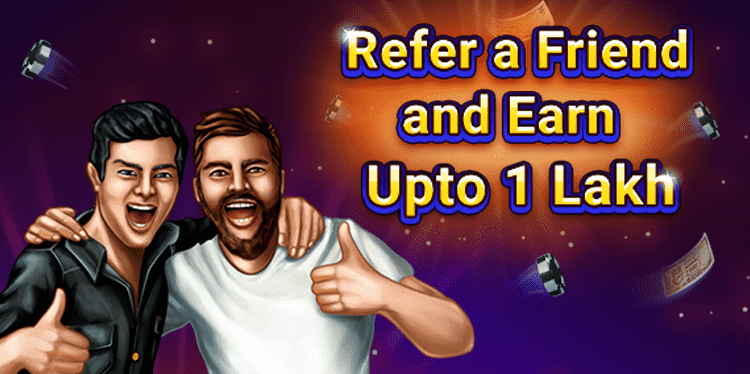
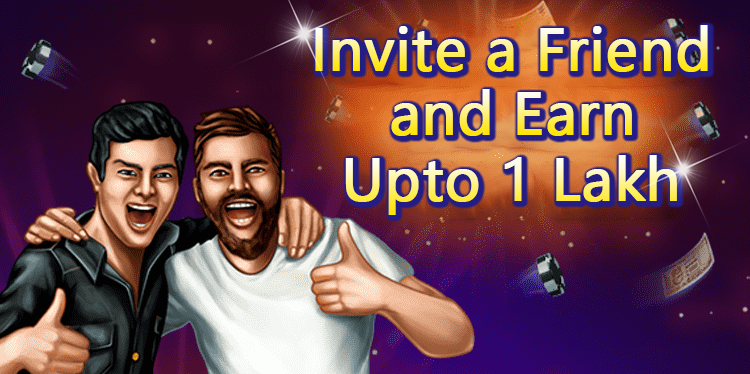
修改图片和英文显示

Changed region(s): [[0.3373, 0.0294, 0.9507, 0.6176]]

diff --git a/pages/activity/signRule.vue b/pages/activity/signRule.vue
@@ -6,7 +6,7 @@
 		<view class="rule-main">
 			<view class="rule-main-header">
 				<!-- <text class="rule-main-header-text">Q1：How much can i earn？</text> -->
-				<text class="rule-main-header-text">Q1：{{i18.signRulePage.Q1}}</text>
+				<text class="rule-main-header-text">Question：{{i18.signRulePage.Q1}}</text>
 				<!-- <text class="u-font-25 u-m-t-15 u-m-b-15 u-p-l-20">The monthly income of VIP 6 is 146 times that of VIP 1!</text> -->
 				<text class="u-font-25 u-m-t-15 u-m-b-15 u-p-l-20">{{i18.signRulePage.monthly}}</text>
 				<u-table color="#a88571">
@@ -24,61 +24,61 @@
 					</u-tr>
 					<u-tr>
 						<!-- <u-td style="color: #000000;">Sign in package 1</u-td> -->
-						<u-td style="color: #000000;">{{i18.signRulePage.mySignIn}} 1</u-td>
+						<u-td style="color: #000000;height: 96upx;">{{i18.signRulePage.mySignIn}} 1</u-td>
 						<u-td style="height: 96upx;">500</u-td>
 						<u-td style="height: 96upx;">18</u-td>
 						<u-td style="height: 96upx;">540</u-td>
-						<u-td style="height: 96upx;">30</u-td>
+						<u-td style="height: 96upx;">30 {{i18.signRulePage.mySignDay}}</u-td>
 
 
 					</u-tr>
 					<u-tr>
 						<!-- <u-td style="color: #000000;">Sign in package 2</u-td> -->
-						<u-td style="color: #000000;">{{i18.signRulePage.mySignIn}} 2</u-td>
+						<u-td style="color: #000000;height: 96upx;">{{i18.signRulePage.mySignIn}} 2</u-td>
 						<u-td style="height: 96upx;">1000</u-td>
 						<u-td style="height: 96upx;">40</u-td>
 						<u-td style="height: 96upx;">1200</u-td>
-						<u-td style="height: 96upx;">30</u-td>
+						<u-td style="height: 96upx;">30 {{i18.signRulePage.mySignDay}}</u-td>
 
 
 					</u-tr>
 					<u-tr>
 						<!-- <u-td style="color: #000000;">Sign in package 3</u-td> -->
-						<u-td style="color: #000000;">{{i18.signRulePage.mySignIn}} 3</u-td>
+						<u-td style="color: #000000;height: 96upx;">{{i18.signRulePage.mySignIn}} 3</u-td>
 						<u-td style="height: 96upx;">2500</u-td>
 						<u-td style="height: 96upx;">100</u-td>
 						<u-td style="height: 96upx;">3000</u-td>
-						<u-td style="height: 96upx;">30</u-td>
+						<u-td style="height: 96upx;">30 {{i18.signRulePage.mySignDay}}</u-td>
 
 
 					</u-tr>
 					<u-tr>
 						<!-- <u-td style="color: #000000;">Sign in package 4</u-td> -->
-						<u-td style="color: #000000;">{{i18.signRulePage.mySignIn}} 4</u-td>
+						<u-td style="color: #000000;height: 96upx;">{{i18.signRulePage.mySignIn}} 4</u-td>
 						<u-td style="height: 96upx;">6000</u-td>
 						<u-td style="height: 96upx;">230</u-td>
 						<u-td style="height: 96upx;">6900</u-td>
-						<u-td style="height: 96upx;">30</u-td>
+						<u-td style="height: 96upx;">30 {{i18.signRulePage.mySignDay}}</u-td>
 
 
 					</u-tr>
 					<u-tr>
 						<!-- <u-td style="color: #000000;">Sign in package 5</u-td> -->
-						<u-td style="color: #000000;">{{i18.signRulePage.mySignIn}} 5</u-td>
+						<u-td style="color: #000000;height: 96upx;">{{i18.signRulePage.mySignIn}} 5</u-td>
 						<u-td style="height: 96upx;">15000</u-td>
 						<u-td style="height: 96upx;">540</u-td>
 						<u-td style="height: 96upx;">16200</u-td>
-						<u-td style="height: 96upx;">30</u-td>
+						<u-td style="height: 96upx;">30 {{i18.signRulePage.mySignDay}}</u-td>
 
 
 					</u-tr>
 					<u-tr>
 						<!-- <u-td style="color: #000000;">Sign in package 6</u-td> -->
-						<u-td style="color: #000000;">{{i18.signRulePage.mySignIn}} 6</u-td>
+						<u-td style="color: #000000;height: 96upx;">{{i18.signRulePage.mySignIn}} 6</u-td>
 						<u-td style="height: 96upx;">45000</u-td>
 						<u-td style="height: 96upx;">1560</u-td>
 						<u-td style="height: 96upx;">46800</u-td>
-						<u-td style="height: 96upx;">30</u-td>
+						<u-td style="height: 96upx;">30 {{i18.signRulePage.mySignDay}}</u-td>
 
 
 					</u-tr>

diff --git a/components/Service.vue b/components/Service.vue
@@ -9,16 +9,20 @@
 				</view>
 			</view>
 			<view class="" v-if="isServer">
-				<view class="app-grouap  u-flex-col u-row-center u-p-t-10" @tap="handleClick(0)">
-					<image v-if="setting[0].icon == 'whats_app'" src="../static/service/whats_app.png" mode="" style="width: 40upx; height: 40upx; margin: auto;"></image>
-					<image v-else src="../static/service/group.png" mode="" style="width: 40upx; height: 40upx; margin: auto;"></image>
-					<text class="u-text-center u-p-b-20" style="color: white; font-size: 18upx;">{{setting[0].title}}</text>
+				<view v-for="(item, k) in setting" v-if="k < 2" :key="k" :class="{'app-grouap':k==0?true:false, 'app-whates':k==1?true:false, 'u-flex-col':true,'u-row-center':true, 'u-p-t-10':true}" @tap="handleClick(0)">
+					<image :src="require(`../static/service/${item.icon}.png`)" mode="" style="width: 40upx; height: 40upx; margin: auto;"></image>
+					<text class="u-text-center u-p-b-20" style="color: white; font-size: 18upx;">{{item.title}}</text>
 				</view>
-				<view class="app-whates  u-flex-col u-row-center u-p-t-10" @tap="handleClick(1)">
-					<image v-if="setting[1].icon == 'whats_app'" src="../static/service/whats_app.png" mode="" style="width: 40upx; height: 40upx; margin: auto;"></image>
+				<!-- <view class="app-whates  u-flex-col u-row-center u-p-t-10" @tap="handleClick(1)">
+					<image v-if="setting[1].icon == 'whats_app'" :src="require(`../static/service/${setting[1].icon}.png`)" mode="" style="width: 40upx; height: 40upx; margin: auto;"></image>
 					<image v-else src="../static/service/group.png" mode="" style="width: 40upx; height: 40upx; margin: auto;"></image>
 					<text class="u-text-center u-p-b-20" style="color: white; font-size: 18upx;">{{setting[1].title}}</text>
 				</view>
+				<view class="app-whates  u-flex-col u-row-center u-p-t-10" @tap="handleClick(1)">
+					<image v-if="setting[1].icon == 'telegram'" :src="require(`../static/service/${setting[1].icon}.png`)" mode="" style="width: 40upx; height: 40upx; margin: auto;"></image>
+					<image v-else src="../static/service/group.png" mode="" style="width: 40upx; height: 40upx; margin: auto;"></image>
+					<text class="u-text-center u-p-b-20" style="color: white; font-size: 18upx;">{{setting[1].title}}</text>
+				</view> -->
 			</view>
 		</view>
 	</view>

diff --git a/locale/en.js b/locale/en.js
@@ -7,7 +7,7 @@ export default {
 			active: "Activity",
 			shop: 'Shopping',
 			enjoy: 'Enjoy',
-			mine: 'Mine',
+			mine: 'My Account',
 			chat: 'Chat',
 			group: 'Group',
 			service: 'Service',
@@ -26,12 +26,13 @@ export default {
 		signRulePage: {
 			Q1: 'How much can i earn？',
 			monthly: 'The monthly income of VIP 6 is 146 times that of VIP 1!',
-			signInName: 'Sign in package name',
-			myProduct: 'Product amount',
-			myDaily: 'Daily rebate amount',
-			myMonthly: 'monthly income',
-			myPayback: 'Payback period',
-			mySignIn: 'Sign in package'
+			signInName: 'VIP Level',
+			myProduct: 'Fee',
+			myDaily: 'Daily reward',
+			myMonthly: 'Total Rewards',
+			myPayback: 'Reward Duration',
+			mySignIn: 'VIP',
+			mySignDay: 'days'
 		},
 		myDate: {
 			'星期一': 'Monday',
@@ -103,7 +104,7 @@ export default {
 			totalValue2: 'Total value',
 			products1: 'Products',
 			rules: 'Rule >',
-			income: 'Daily income',
+			income: 'Daily Reward',
 			price: 'Price: ',
 			buy: 'Buy',
 			receive: 'Receive',
@@ -137,7 +138,7 @@ export default {
 		},
 		shop: {
 			shopNavbar: ' Shopping Cart ',
-			content: 'YOUR SHOPPING CART IS TEMPORARILY OUT OF STOCK',
+			content: 'Shopping cart is empty',
 			gobuy: 'Go Buy'
 		},
 		enjoy: {

diff --git a/components/ProductList.vue b/components/ProductList.vue
@@ -5,9 +5,9 @@
 			<text class="product-box-title-text" @click="ruleDetails">{{i18.active.rules}} ></text>
 		</view>
 		<view class="product-box-body">
-			<block v-for="(item) in signList">
+			<block v-for="(item,k) in signList">
 				<view class="product-box-body-item" :key="item.id">
-					<image class="product-box-body-img" src="../static/activity/sign_product_1.40a3bccc.png" mode=""></image>
+					<image class="product-box-body-img" :src="require(`../static/activity/v${k+1}.png`)" mode=""></image>
 					<!-- <text>{{item.name}}</text> -->
 					<view class="product-box-body-text">
 						<view class="product-box-body-text-left">
@@ -149,7 +149,7 @@
 					this.$util.msg('Successful purchase')
 					this.updates()
 				} else {
-						this.$util.msg('Eror purchase')
+					this.$util.msg(data.msg)
 				}
 				// console.log(data.data)
 

diff --git a/pages/enjoy/index.vue b/pages/enjoy/index.vue
@@ -885,6 +885,7 @@
 						break;
 					case 3:
 						titleName = this.navBarList[3].name
+						break;
 				}
 				this.$Router.push({
 					path: "/pages/enjoy/recordList/recordList",
@@ -895,8 +896,27 @@
 				});
 			},
 			orderDetail() {
+				let titleName = null
+				switch(Number(this.current)){
+					case 4:
+						titleName = this.navBarList[0].name
+						break;
+					case 1:
+						titleName = this.navBarList[1].name
+						break;
+					case 2:
+						titleName = this.navBarList[2].name
+						break;
+					case 3:
+						titleName = this.navBarList[3].name
+						break;
+				}
 				this.$Router.push({
-					name: "enjoyOrder",
+					path: "/pages/enjoy/enjoyOrder/enjoyOrder",
+					query: {
+						gameId: this.current,
+						titleName
+					},
 				});
 			},
 			// 订单

diff --git a/pages/enjoy/enjoyOrder/enjoyOrder.vue b/pages/enjoy/enjoyOrder/enjoyOrder.vue
@@ -143,7 +143,7 @@
 
 				</view>
 			</block>
-			<u-loadmore :status="status" :load-text="loadText" />
+			<u-loadmore :status="loadStatus" :load-text="loadText" />
 		</view>
 	</view>
 </template>
@@ -176,8 +176,12 @@
 			}
 		},
 		onReady() {
+			// uni.setNavigationBarTitle({
+			// 	title: this.i18.enjoy.goldNavbar2
+			// })
 			uni.setNavigationBarTitle({
-				title: this.i18.enjoy.goldNavbar2
+				// title: this.i18.enjoy.golidNavbar
+				title: this.$Route.query.titleName + 'Record'
 			})
 		},
 		onReachBottom() { //上拉触底函数
@@ -200,7 +204,8 @@
 			async requestGames() {
 				const params = {
 					limit: this.pagesize,
-					page: this.page
+					page: this.page,
+					game_id: this.$Route.query.gameId
 				}
 				const {
 					data,

diff --git a/pages/register/register.vue b/pages/register/register.vue
@@ -35,7 +35,7 @@
 						<u-input v-model="form.sms" :placeholder="i18.login.vlidata" />
 
 						<u-toast ref="uToast"></u-toast>
-						<u-verification-code :seconds="seconds" start-text="top" :change-text="`${sendCode}sReacquire`" end-text="Reacquire"
+						<u-verification-code :seconds="seconds" start-text="OTP" :change-text="`${sendCode}sReacquire`" end-text="Reacquire"
 						 @end="end" @start="start" ref="uCode" @change="codeChange"></u-verification-code>
 						<u-button @tap="getCode" size="mini">{{tips}}</u-button>
 
@@ -211,7 +211,7 @@
 					// 	name: 'login'
 					// })
 				} else {
-					this.$util.msg('registration error')
+					this.$util.msg(result.msg)
 
 				}
 			},

diff --git a/pages/rechargeRecord/rechargeRecord.vue b/pages/rechargeRecord/rechargeRecord.vue
@@ -52,7 +52,9 @@
 		<!-- <u-loadmore :status="status" /> -->
 		<view v-show="isLoadMore">
 			<!-- <uni-load-more :status="loadStatus"></uni-load-more> -->
-			<u-loadmore :status="loadStatus" :icon-type="iconType" />
+			<u-loadmore :status="loadStatus" :icon-type="iconType" :load-text="{loadmore: 'load more',
+						loading: 'loading',
+						nomore: 'no more'}" />
 		</view>
 	</view>
 </template>

diff --git a/locale/ek.js b/locale/ek.js
@@ -32,6 +32,7 @@ export default {
 			myMonthly: 'मासिक आय',
 			myPayback: 'ऋण वापसी की अवधि',
 			mySignIn: 'पैकेज में साइन इन करें',
+			mySignDay: 'दिन'
 		},
 		myDate: {
 			'星期一': 'सोमवार',
